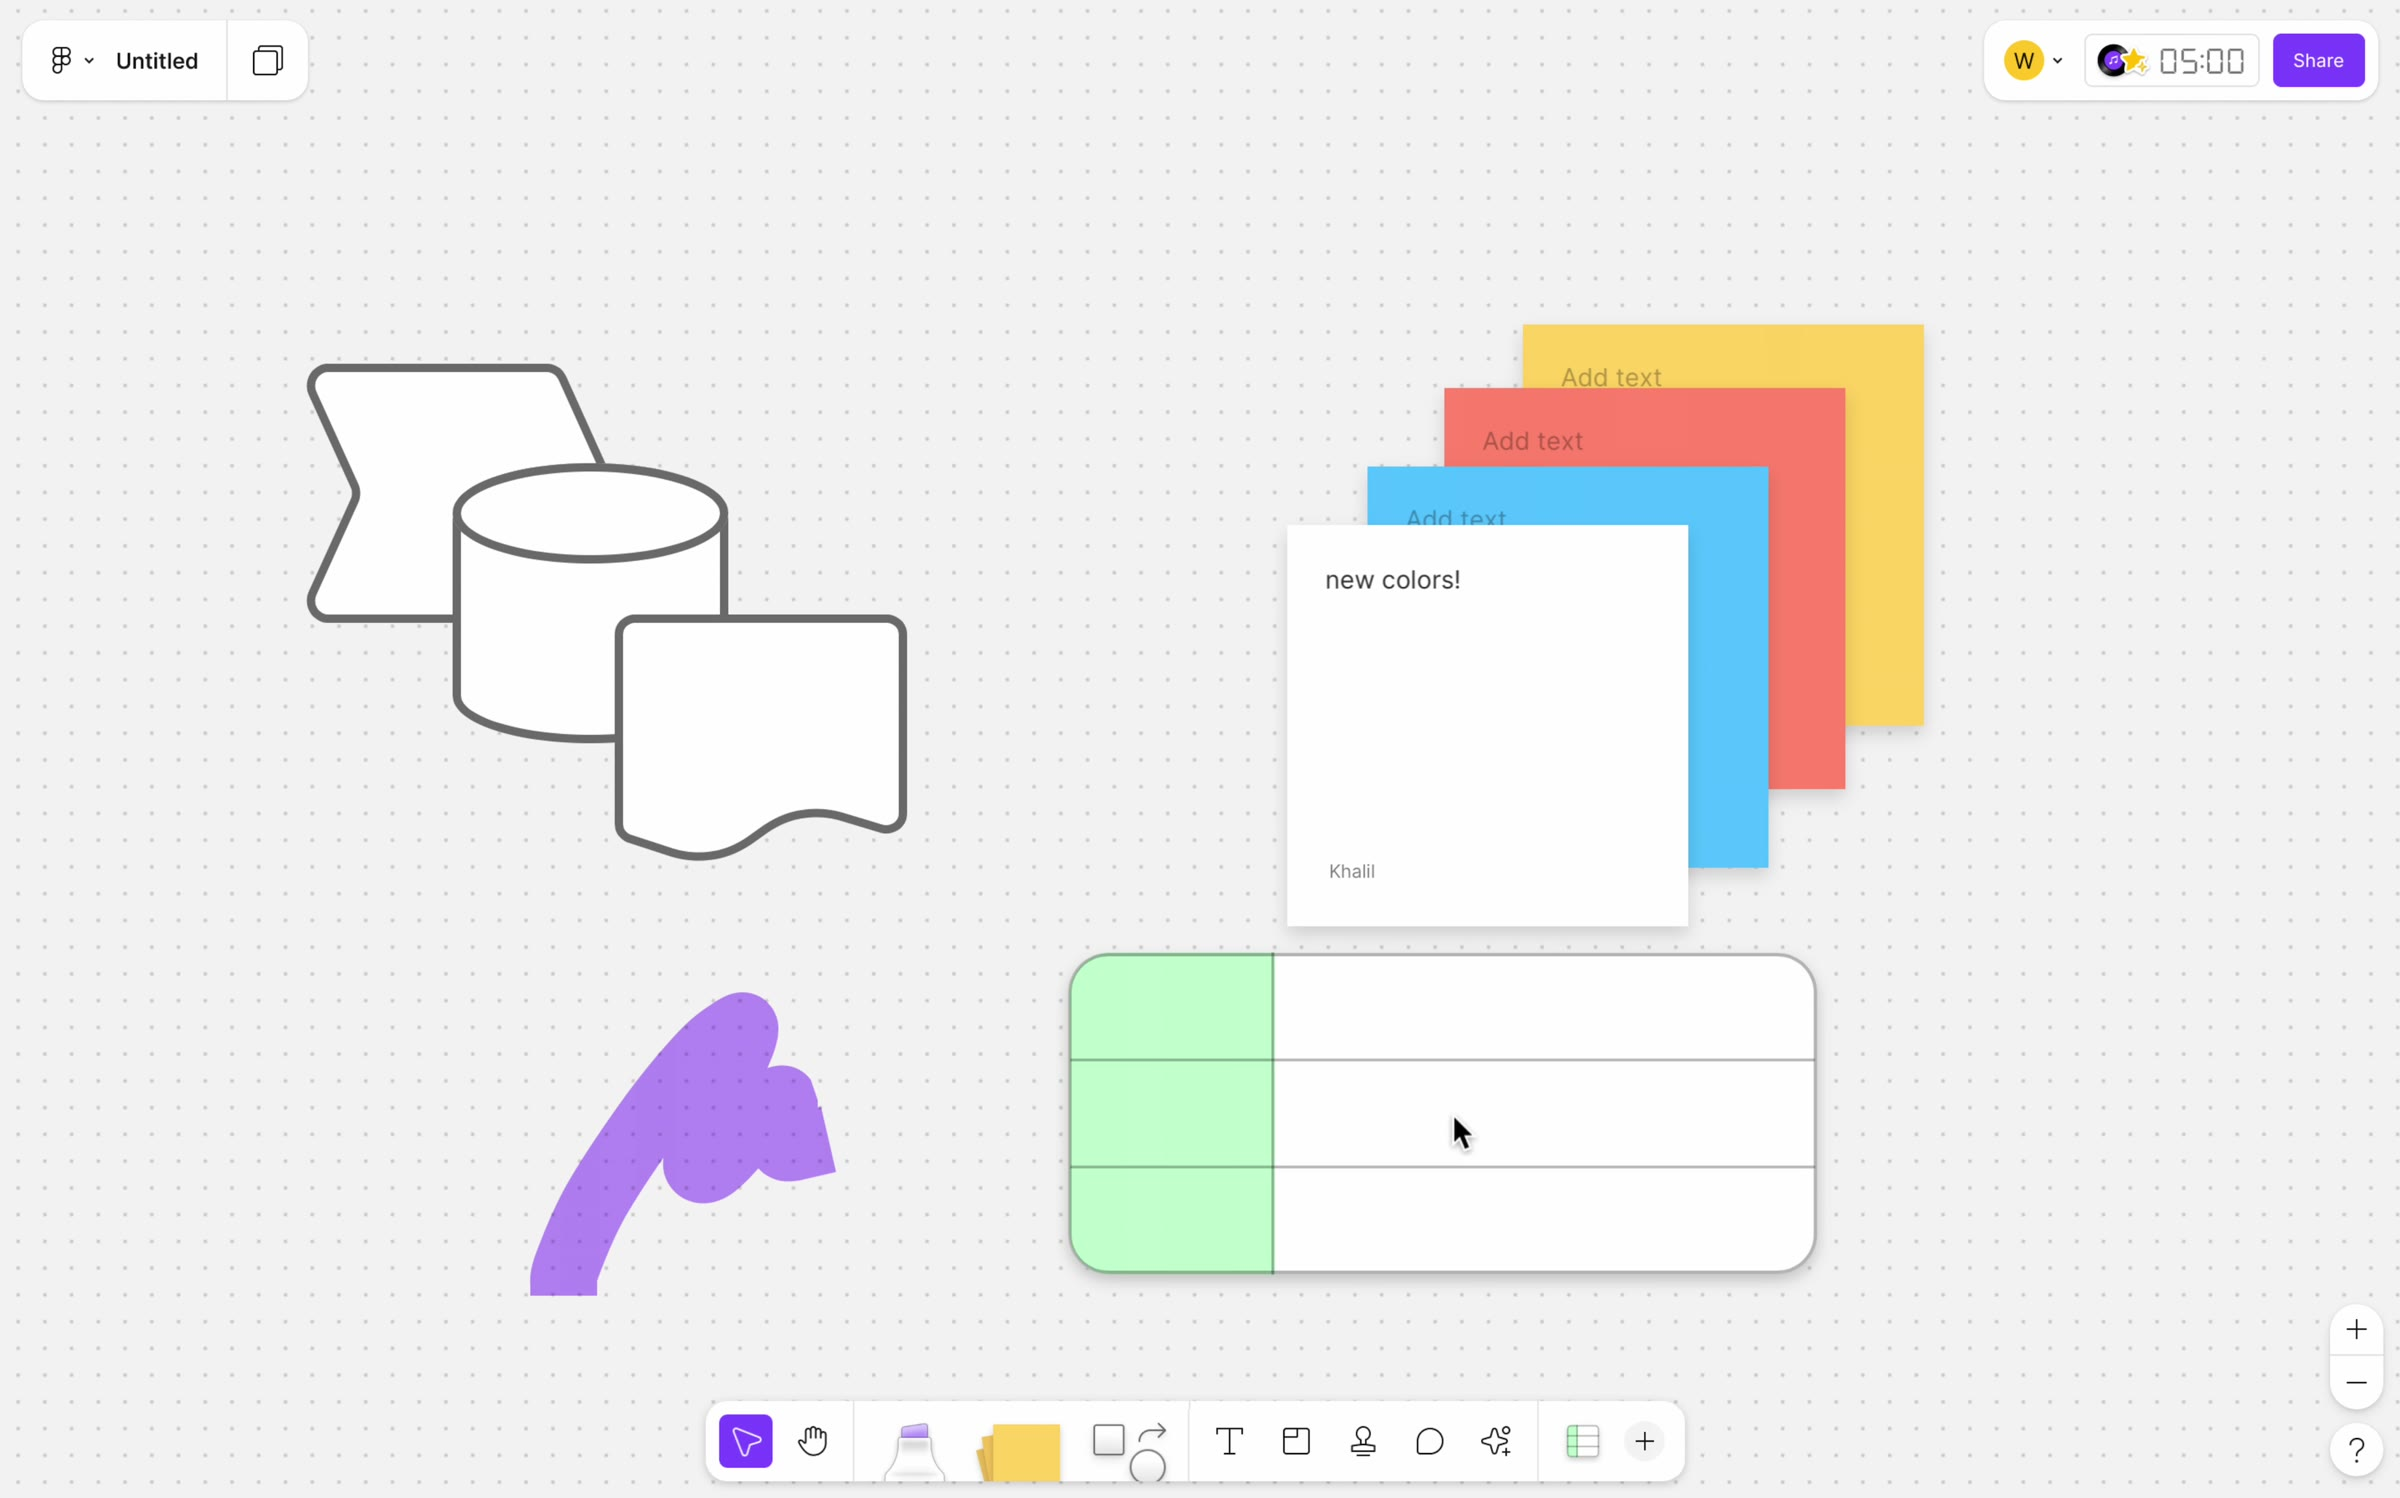
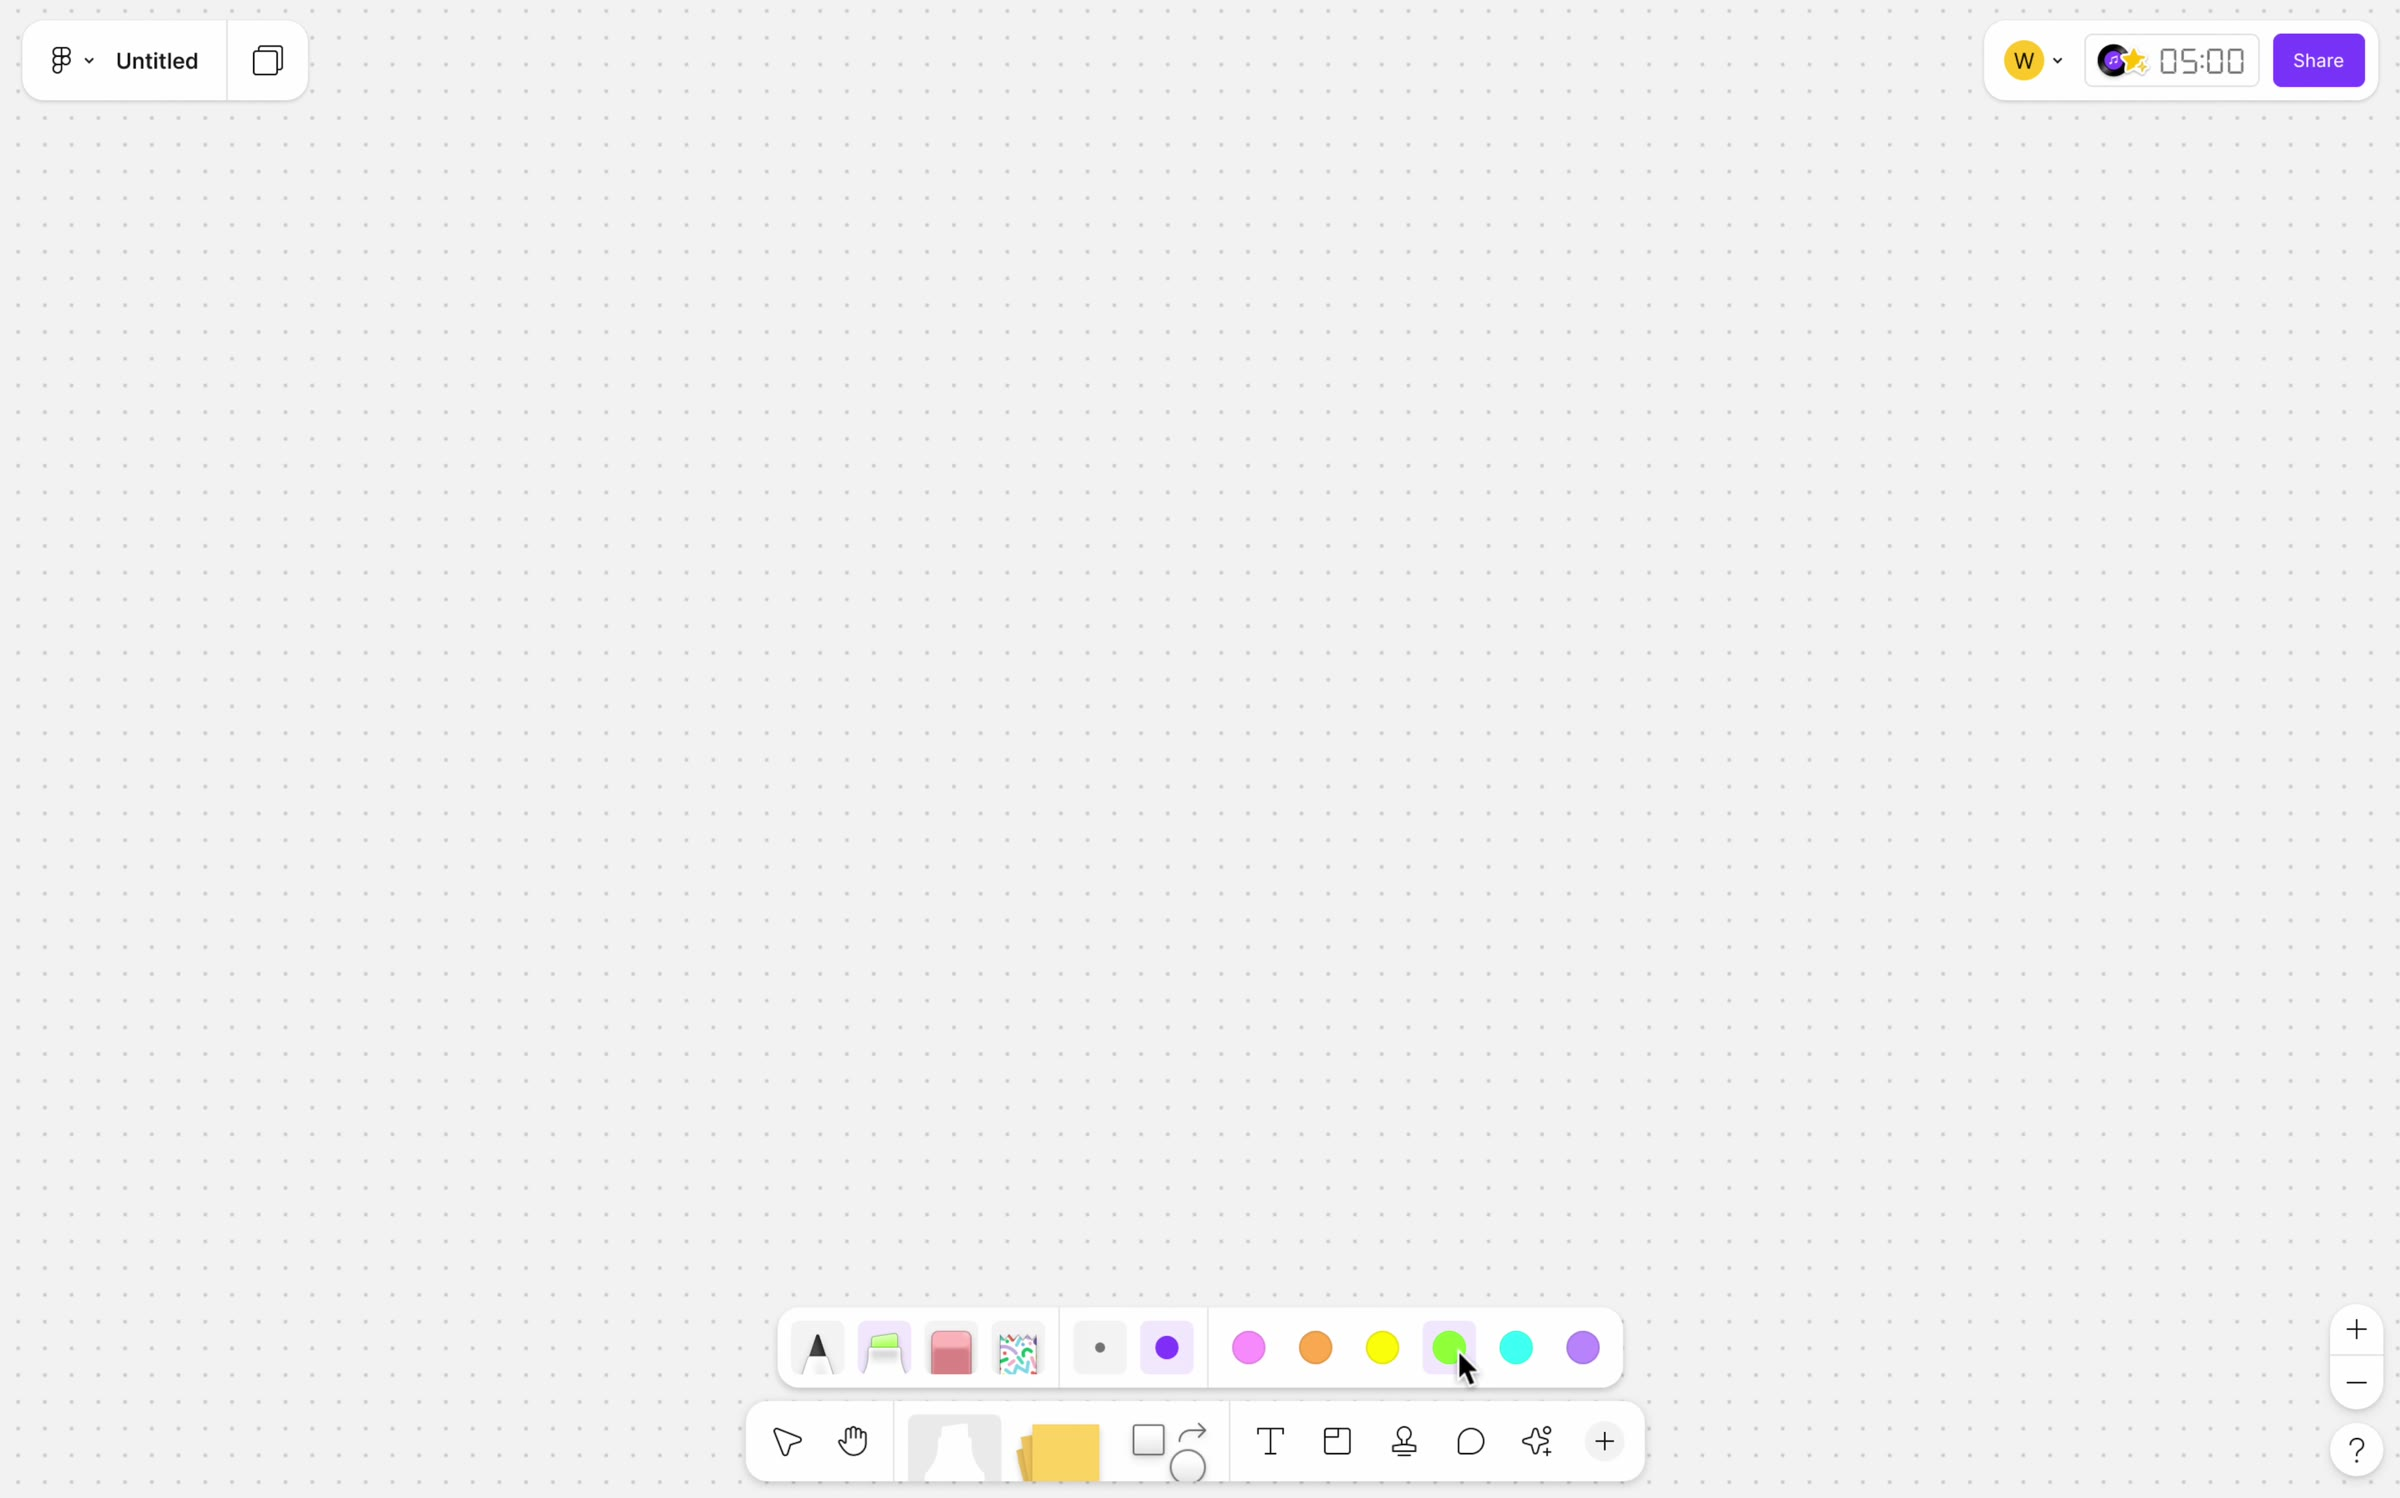
FigJam Toolbar: thumbnail on the toolbar alone, marker colours open; stills regenerated
Claude-Session: https://claude.ai/code/session_01KWunyGjQtk3sCnGrUXUHPS

diff --git a/src/content/work/figjam-toolbar.md b/src/content/work/figjam-toolbar.md
@@ -14,9 +14,9 @@ cover:
     webm: images/work/figjam-toolbar.webm
     mp4: images/work/figjam-toolbar.mp4
     poster: images/work/figjam-toolbar.jpg
-    start: 55
+    start: 11
     device: desktop
-    rest: [0.5, 0.62, 1.32]   # thumbnail: the board filled from the toolbar, backdrop below the window
+    rest: [0.5, 0.78, 2]   # thumbnail: the toolbar alone, the marker colours open
     # [seconds, x, y, zoom]
     camera:
       - [0, 0.5, 0.5, 1]
